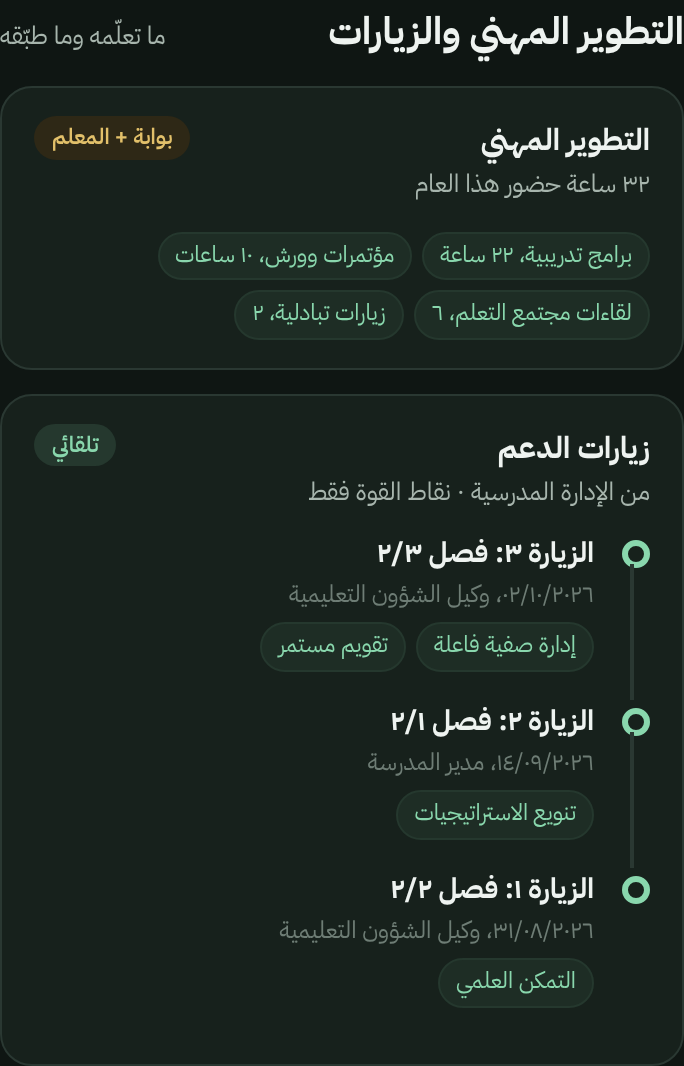
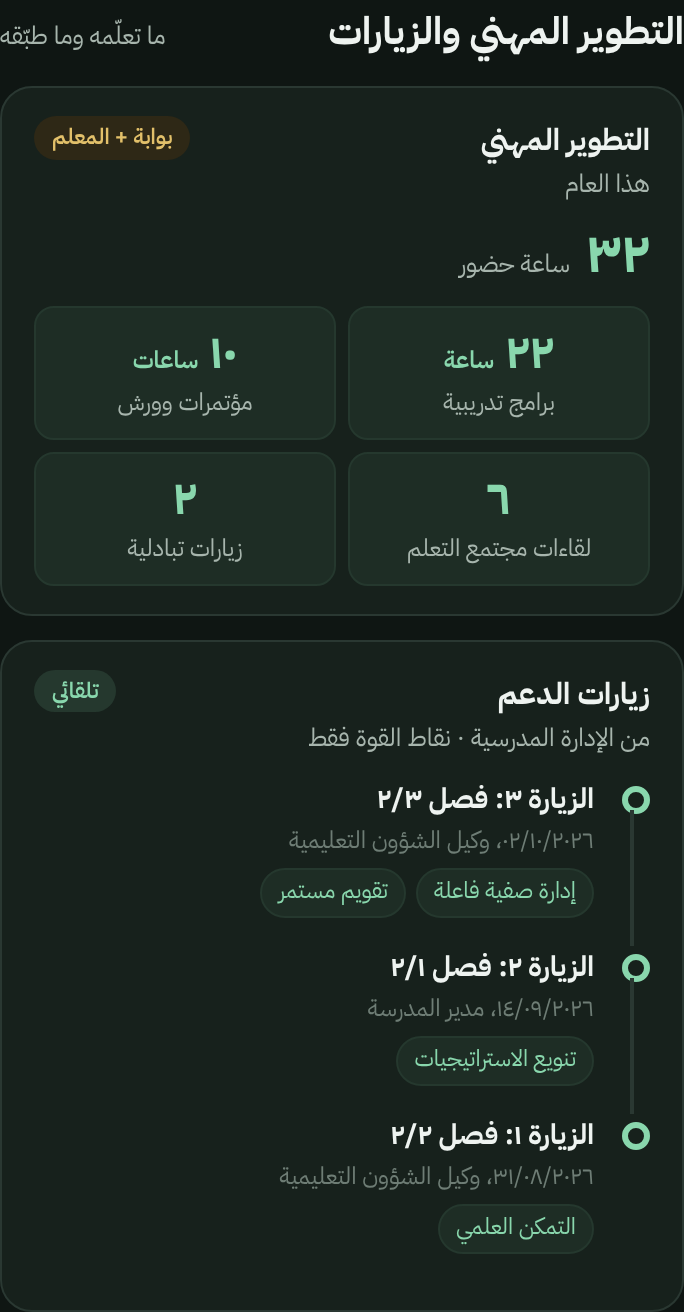
ملف المعلم الرقمي: أرقام التطوير المهني بارزة في بطاقات صغيرة
Claude-Session: https://claude.ai/code/session_01QzqWfYFyUodUKxUMNwYvZ2

diff --git a/docs/teacher-digital-file/prototype.html b/docs/teacher-digital-file/prototype.html
@@ -214,6 +214,9 @@ section.sec { display: grid; gap: 12px; scroll-margin-top: 64px; }
 .qlist span { font-size: 12px; color: var(--muted); }
 .tiles { display: grid; grid-template-columns: repeat(3, minmax(0, 1fr)); gap: 6px; }
 .tiles span { display: grid; justify-items: center; gap: 1px; padding: 8px 4px; border-radius: 10px; background: var(--tint); border: 1px solid var(--mint-light); font-size: 12px; color: var(--muted); white-space: nowrap; }
+.tiles.t2 { grid-template-columns: repeat(2, minmax(0, 1fr)); }
+.tiles.t2 b { font-size: 24px; }
+.tiles b small { font-size: 12px; font-weight: 600; }
 .tiles b { font-size: 18px; color: var(--deep); line-height: 1.2; }
 .grp { font-size: 12.5px; font-weight: 700; color: var(--deep); margin-top: 2px; }
 .keys { display: flex; flex-wrap: wrap; gap: 4px 12px; font-size: 11.5px; color: var(--muted); }
@@ -619,8 +622,9 @@ section.sec { display: grid; gap: 12px; scroll-margin-top: 64px; }
     <div class="sec-h"><h2>التطوير المهني والزيارات</h2><p>ما تعلّمه وما طبّقه</p></div>
     <div class="grid2">
       <div class="card">
-        <div class="card-h"><div><h3>التطوير المهني</h3><p class="sub num">٣٢ ساعة حضور هذا العام</p></div><span class="src mix">بوابة + المعلم</span></div>
-        <div class="tags"><span class="tag num">برامج تدريبية، ٢٢ ساعة</span><span class="tag num">مؤتمرات وورش، ١٠ ساعات</span><span class="tag num">لقاءات مجتمع التعلم، ٦</span><span class="tag num">زيارات تبادلية، ٢</span></div>
+        <div class="card-h"><div><h3>التطوير المهني</h3><p class="sub">هذا العام</p></div><span class="src mix">بوابة + المعلم</span></div>
+        <div class="imp-sum"><span class="v num" style="direction:rtl">٣٢</span><span class="sub">ساعة حضور</span></div>
+        <div class="tiles t2"><span><b class="num">٢٢ <small>ساعة</small></b>برامج تدريبية</span><span><b class="num">١٠ <small>ساعات</small></b>مؤتمرات وورش</span><span><b class="num">٦</b>لقاءات مجتمع التعلم</span><span><b class="num">٢</b>زيارات تبادلية</span></div>
       </div>
       <div class="card">
         <div class="card-h"><div><h3>زيارات الدعم</h3><p class="sub">من الإدارة المدرسية · نقاط القوة فقط</p></div><span class="src auto">تلقائي</span></div>

diff --git a/docs/teacher-digital-file/handoff.md b/docs/teacher-digital-file/handoff.md
@@ -110,7 +110,7 @@
 
 **٩. التطوير المهني والزيارات ✅**
 - **لا يوجد مستهدف ساعات:** حُذف من البطاقة، ومن وصف رقم الساعات في الأرقام الستة، ومن جمل «قراءة في ٣٠ ثانية».
-- **بطاقة التطوير المهني:** مجموع ساعات الحضور (`attendHours`: البرامج التدريبية والمؤتمرات) ثم **وسوم**: برامج تدريبية، ومؤتمرات وورش، ولقاءات مجتمع التعلم، والزيارات التبادلية المعتمدة (`exchange_visits`). لا يظهر ما قدّمه المعلم لزملائه من ساعات.
+- **بطاقة التطوير المهني:** مجموع ساعات الحضور (`attendHours`: البرامج التدريبية والمؤتمرات) ثم **بطاقات صغيرة بأرقام بارزة**: برامج تدريبية، ومؤتمرات وورش، ولقاءات مجتمع التعلم، والزيارات التبادلية المعتمدة (`exchange_visits`). لا يظهر ما قدّمه المعلم لزملائه من ساعات.
 - **زيارات الدعم:** لكل زيارة التاريخ والفصل والزائر، ووسوم **نقاط القوة فقط**، دون التوصيات والتقديرات.
 
 **الأقسام الباقية للنقاش (التالي: الإنجازات):** الإنجازات، وعناصر الأداء، والشواهد المرفوعة. اقتُرح طيّ عناصر الأداء والشواهد، ولم يُقرَّر.
